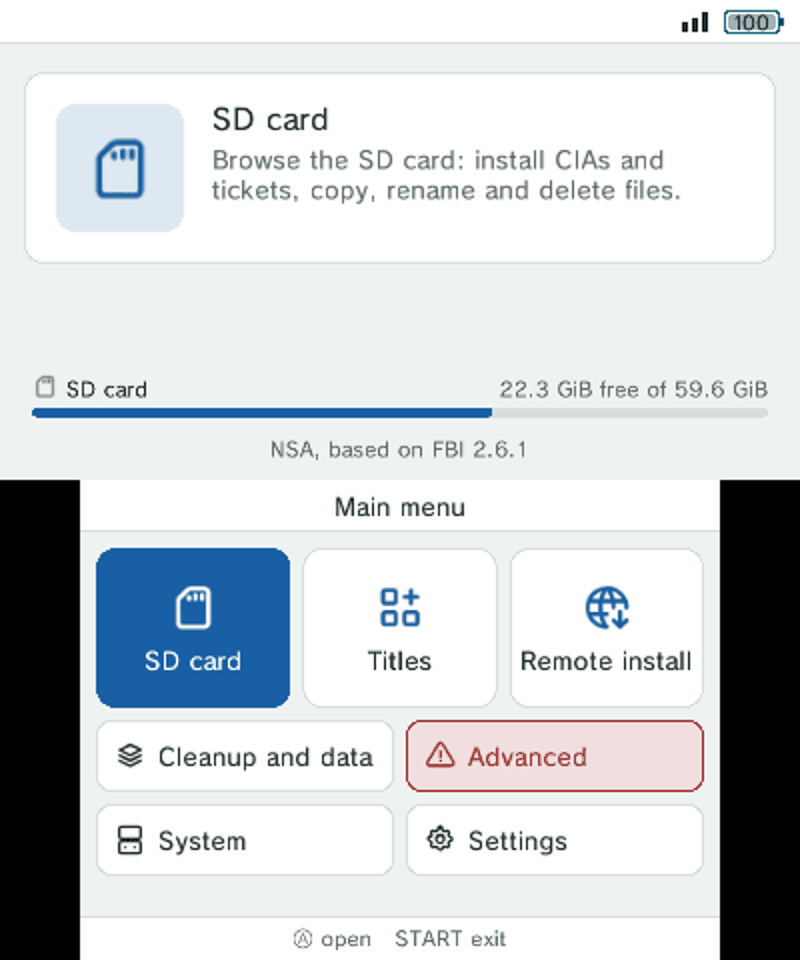
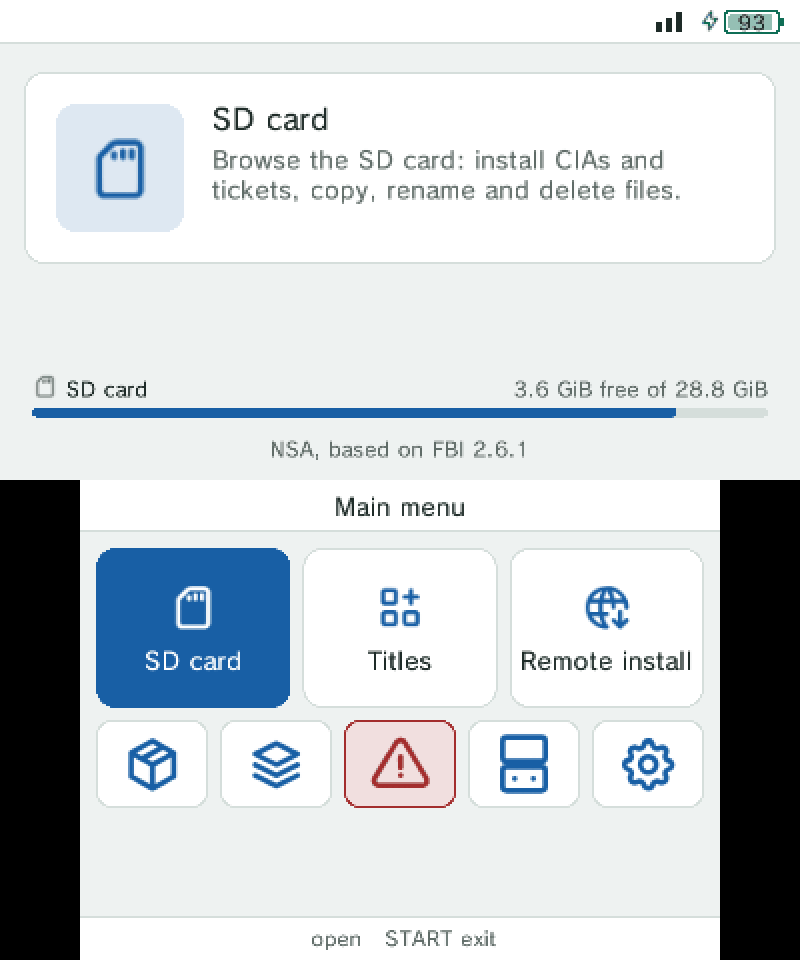
README: the Store, the main menu, the guide and the keyboard, with new pictures
Pictures taken on a 2DS: the new main menu and its editing, the Store
and an app's actions, NSA's keyboard, and the guide's list and a tour.

diff --git a/README.md b/README.md
@@ -12,7 +12,7 @@ channel. Some tools need Luma3DS, as FBI's did (listed below).
 
 <p align="center">
   <img src="docs/images/main-menu.png" width="360" alt="Main menu">
-  <img src="docs/images/titles-grid.png" width="360" alt="Titles as a grid of icons">
+  <img src="docs/images/store.png" width="360" alt="The Store">
 </p>
 
 ## What it does
@@ -33,10 +33,23 @@ channel. Some tools need Luma3DS, as FBI's did (listed below).
   <img src="docs/images/receive-3ds.png" width="360" alt="Receiving from another 3DS">
 </p>
 
+### Store
+
+- Browse the homebrew of [Universal-DB](https://db.universal-team.net/) with its icons: rows or a
+  grid, search with NSA's own keyboard, filters by type and category, and sorting.
+- Install an app's CIA or download its `.3dsx` to `/3ds/`. A mark shows what is already
+  on the console.
+
+<p align="center">
+  <img src="docs/images/store-actions.png" width="360" alt="An app of the Store and its actions">
+  <img src="docs/images/keyboard.png" width="360" alt="Searching with NSA's own keyboard">
+</p>
+
 ### Titles, tickets and data
 
 <p align="center">
   <img src="docs/images/titles.png" width="360" alt="The list of titles">
+  <img src="docs/images/titles-grid.png" width="360" alt="Titles as a grid of icons">
   <img src="docs/images/titles-filter.png" width="360" alt="Filters: memory, kind and region">
   <img src="docs/images/title-actions.png" width="360" alt="A title's actions">
 </p>
@@ -93,6 +106,12 @@ SD card. These are drawn in a soft red because a wrong change can stop the conso
 
 ### Look and feel
 
+- **Your own main menu**: three big tiles and a row of icons. Hold an entry, or press SELECT, to
+  reorder them by dragging, or hide the ones you do not use.
+- **A guide** that shows how NSA works in short tours on the real screens: a bubble points at each
+  button and you do each step yourself. After an update it offers only what is new; Settings →
+  Guide plays any chapter again.
+- **NSA's own keyboard** for searches, names, URLs and the text editor.
 - **Three themes**: *Cards*, *Pixel* (a pixel font, square corners and bars in blocks) and *HOME*
   (big icon tiles and dialogs as a sheet from the bottom), in day and night colours with eight
   accent colours and a yellow one. Settings → Theme.
@@ -106,6 +125,9 @@ SD card. These are drawn in a soft red because a wrong change can stop the conso
 - A **System** page with the console's model, versions, network, battery and storage.
 
 <p align="center">
+  <img src="docs/images/menu-edit.png" width="360" alt="Editing the main menu">
+  <img src="docs/images/guide-tour.png" width="360" alt="A tour of the guide on the main menu">
+  <img src="docs/images/guide.png" width="360" alt="The guide's chapters">
   <img src="docs/images/theme-pixel.png" width="360" alt="The Pixel theme">
   <img src="docs/images/theme-home.png" width="360" alt="The HOME theme">
   <img src="docs/images/settings.png" width="360" alt="Settings">
@@ -121,7 +143,7 @@ SD card. These are drawn in a soft red because a wrong change can stop the conso
   [CLAUDE.md](CLAUDE.md).
 - Plans, decisions and what is still to test on a console are in [docs/PLAN.md](docs/PLAN.md).
 
-> The pictures are from a New 3DS XL. Some of the newer features have so far run only in an
+> The pictures are from a New 3DS XL and a 2DS. Some of the newer features have so far run only in an
 > emulator, not on every console; the "Pending tests" list in `docs/PLAN.md` says which. Report
 > what does not work as an [issue](https://github.com/tinaut1986/NSA/issues).
 
